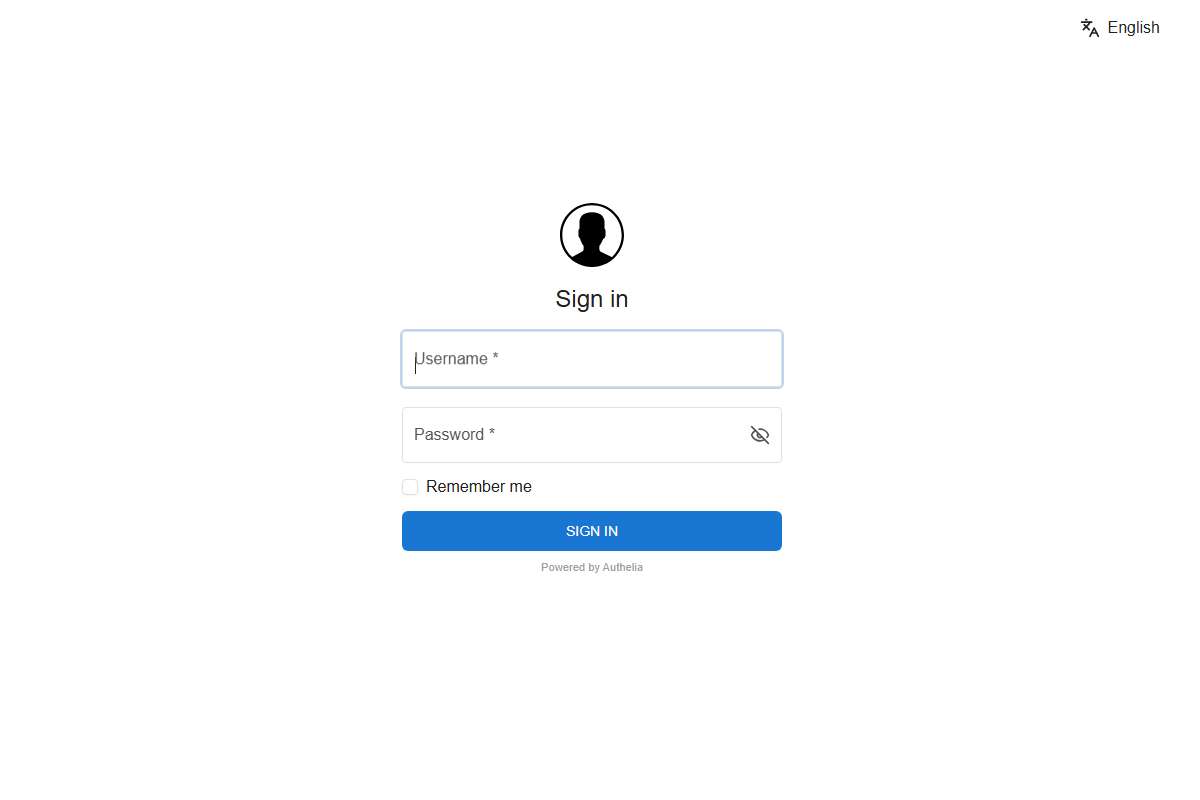
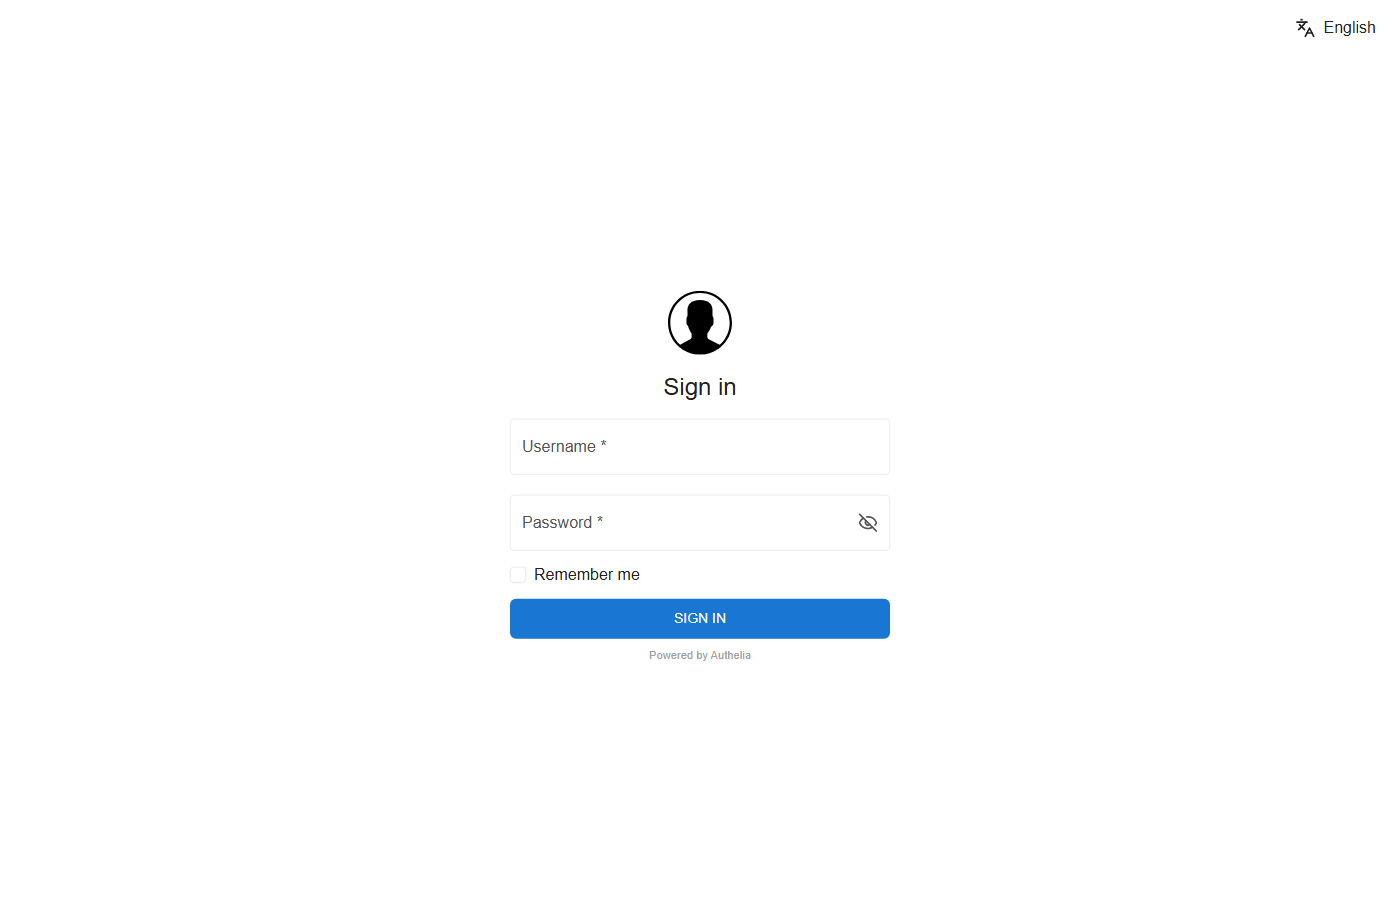
Week 6: Phoenix tracing, Prometheus + Grafana, n8n workflows (docs, screenshots)
Manifests and code landed in 0175932; this adds README 6.16/6.17, the week-06 note,
screenshots and the screenshots.ps1 sign-in fix (Authelia redirects to chat.ai.local
after sign-in). Phoenix replaces Langfuse throughout the README.

diff --git a/README.md b/README.md
@@ -4,7 +4,7 @@ A self-hosted, MCP-based AI agent platform running on **k3s inside WSL2 (Ubuntu 
 
 | | |
 |---|---|
-| **Core stack** | Ollama (3B models) · LiteLLM · LangGraph · MCP · Qdrant · MLflow · Dagster · BentoML · n8n · Langfuse · ArgoCD |
+| **Core stack** | Ollama (3B models) · LiteLLM · LangGraph · MCP · Qdrant · MLflow · Dagster · BentoML · n8n · Phoenix · Prometheus/Grafana · ArgoCD |
 | **Hardware** | Windows 11 laptop, 8+ CPU threads, 32 GB RAM, ~100 GB free SSD (reference build: Intel Core i7-9850H, 6 cores / 12 threads) |
 | **Cost** | $0 (all open source + GitHub free tier) |
 | **GPU** | Not required: everything runs on the CPU (small laptop GPUs with 2–4 GB VRAM don't help 3B models) |
@@ -56,7 +56,7 @@ A self-hosted, MCP-based AI agent platform running on **k3s inside WSL2 (Ubuntu 
 | Agent | LangGraph | Stateful agent graph / orchestration |
 | Protocol | MCP | Standard tool interface between agent and tools |
 | Vector DB | Qdrant | Embedding storage and similarity search |
-| Database | Postgres / SQLite | App state, metadata, backends for MLflow/n8n/Langfuse |
+| Database | Postgres / SQLite | Metadata for MLflow and Dagster (Postgres); n8n, Phoenix, Authelia, Grafana on SQLite |
 | Object Storage | SeaweedFS | S3-compatible artifact and document storage (MinIO went source-only in late 2025, [6.13](#613-training-pipeline-mlflow--dagster--optuna)) |
 | ML Tracking | MLflow | Experiments, metrics, model registry |
 | Pipelines | Dagster | Training, tuning, and RAG indexing pipelines |
@@ -66,7 +66,7 @@ A self-hosted, MCP-based AI agent platform running on **k3s inside WSL2 (Ubuntu 
 | UI | Open WebUI + custom Streamlit | Chat UI and agent UI |
 | Cluster UI | Headlamp | Web dashboard for pods, logs, events and resource usage |
 | Automation | n8n | Scheduled and event-driven workflows |
-| LLM Observability | Langfuse | Prompt/response traces, latency, cost |
+| LLM Observability | Phoenix (Arize, OpenTelemetry) | Traces of every agent run and LLM call: steps, prompts, latency ([6.16](#616-observability-phoenix-prometheus-grafana)); chosen over Langfuse v3 for the RAM budget |
 | Metrics | Prometheus + Grafana | Cluster and service metrics |
 | GitOps | ArgoCD | Sync manifests from GitHub to k3s |
 | CI/CD | GitHub Actions + GHCR | Test, build, and publish container images |
@@ -100,7 +100,7 @@ Windows 11 (32 GB) ── browser ──► https://*.ai.local (hosts file → 1
                      ├── agent:         LangGraph + MCP servers
                      ├── ui:            Open WebUI + Streamlit
                      ├── automation:    n8n
-                     ├── observability: Langfuse, Grafana, Prometheus
+                     ├── observability: Phoenix, Prometheus, Grafana
                      └── argocd
 ```
 
@@ -117,7 +117,7 @@ User ──► Open WebUI / Streamlit ──► Traefik ──► LangGraph agen
           Ollama (LLM + embeddings)     filesystem / web / memory / sqlite / time
           Qdrant (RAG retrieval)
 
-All LLM calls (via LiteLLM) ──► Langfuse (traces)     All pods ──► Prometheus ──► Grafana
+Agent runs + all LLM calls (via LiteLLM) ──► Phoenix (traces)     Traefik, containers, BentoML ──► Prometheus ──► Grafana
 ```
 
 ---
@@ -154,7 +154,10 @@ local-ai-platform/
 │   │   ├── ui/agent-ui.yaml      # Streamlit agent UI (agent.ai.local)
 │   │   ├── ui/headlamp.yaml      # Kubernetes dashboard (headlamp.ai.local)
 │   │   ├── automation/n8n.yaml
-│   │   ├── observability/langfuse.yaml
+│   │   ├── automation/n8n-workflows.yaml # email triage + daily briefing, imported on start (6.17)
+│   │   ├── observability/phoenix.yaml    # LLM tracing (6.16)
+│   │   ├── observability/prometheus.yaml # metrics: Traefik, containers, BentoML
+│   │   ├── observability/grafana.yaml    # Platform overview dashboard, sign-on via Authelia
 │   │   ├── auth/authelia.yaml    # single sign-on for every *.ai.local UI (6.14)
 │   │   ├── ingress/ingresses.yaml # *.ai.local, HTTPS, behind auth/authelia
 │   │   ├── ingress/tls.yaml       # Traefik's default certificate (*.ai.local)
@@ -207,7 +210,6 @@ local-ai-platform/
 │   └── triage/             # data.py (download, split), train.py (Optuna + MLflow), definitions.py
 ├── serving/                # BentoML service for the triage model (6.15)
 │   └── service.py
-├── n8n/workflows/
 ├── ui/                     # Streamlit agent UI
 ├── data/
 ├── tests/                  # pytest, no cluster or LLM needed (make test)
@@ -402,7 +404,8 @@ Script: [`windows-hosts.ps1`](infra/scripts/host/windows-hosts.ps1) (admin Power
 127.0.0.1 mlflow.ai.local
 127.0.0.1 dagster.ai.local
 127.0.0.1 n8n.ai.local
-127.0.0.1 langfuse.ai.local
+127.0.0.1 phoenix.ai.local
+127.0.0.1 triage.ai.local
 127.0.0.1 grafana.ai.local
 127.0.0.1 s3.ai.local
 127.0.0.1 qdrant.ai.local
@@ -458,7 +461,7 @@ curl -s https://llm.ai.local/v1/chat/completions -H 'Content-Type: application/j
 - **Hosted models** (`chat-cloud`). Put the API key in a `litellm-keys` Secret, not in Git. This is off by default: enabling it sends prompts off the machine (see [Non-Functional Requirements](#11-non-functional-requirements)).
 - **vLLM** isn't used. It needs a supported GPU, which this laptop doesn't have; on CPU it's slower than Ollama and serves one model per process. If a GPU box becomes available, its OpenAI endpoint is one more entry (`model: hosted_vllm/<model>`, `api_base: http://<host>:8000/v1`).
 
-When Langfuse arrives (Week 6), add `success_callback: ["langfuse"]` under `litellm_settings` and every LLM call is traced from this one place.
+Every LLM call through LiteLLM is traced to Phoenix (`callbacks: ["arize_phoenix"]` under `litellm_settings`, §6.16).
 
 ### 6.10 File agent (LangGraph + filesystem MCP)
 
@@ -635,6 +638,36 @@ The report also showed why it matters: the model caught 47 of 60 modern phishing
 
 **Privacy:** logged requests contain the message text; they stay in SeaweedFS on this machine (bucket `triage`). Set `REQUEST_LOG_BUCKET` to `""` in `serving.yaml` to stop logging (the drift report then always skips).
 
+### 6.16 Observability (Phoenix, Prometheus, Grafana)
+
+Profile `observability` (~0.8 GB). Turn it on when you want to see what happened: `.\infra\scripts\platform.ps1 profile mlops,observability`.
+
+| UI | What you see | Source |
+|---|---|---|
+| https://phoenix.ai.local | One trace per agent question (LangGraph → retrieve → search → answer → model call, with prompts, outputs and timings), and one per LLM call through LiteLLM (Open WebUI chats, n8n) | agent: OpenInference instrumentation ([`agent/main.py`](agent/main.py)); LiteLLM: `callbacks: ["arize_phoenix"]` ([`llm/litellm.yaml`](infra/k3s/llm/litellm.yaml)) |
+| https://grafana.ai.local | *Platform overview*: memory and CPU by namespace, top pods, requests/s and p95 latency per UI, message-classifier traffic | Prometheus ([`observability/prometheus.yaml`](infra/k3s/observability/prometheus.yaml)) |
+
+**Prometheus is deliberately small:** three scrape jobs (Traefik's metrics, container CPU/memory from the kubelet, pods annotated `prometheus.io/scrape` such as BentoML), only the series the dashboard uses, 7 days of retention; 36 MB instead of the kube-prometheus stack's ~1 GB. **Grafana** signs you in from the platform login (Authelia's `Remote-User` header), no second password. The dashboard is provisioned from [`grafana.yaml`](infra/k3s/observability/grafana.yaml); dashboards you build in the UI are kept on its volume.
+
+**Phoenix instead of Langfuse:** Langfuse v3 needs a web app, a worker, ClickHouse and Redis (~1.5–2 GB); Phoenix is one container with SQLite (~0.5 GB) and speaks OpenTelemetry natively. With the profile off, the agent and LiteLLM simply fail to export (silenced) and keep working.
+
+**Gotcha fixed on the way:** FastAPI now emits OpenTelemetry spans itself whenever a *global* tracer exists, so the agent's 10-second health probes buried the real runs. The agent registers Phoenix's tracer privately and hands it only to the LangChain/LangGraph instrumentation.
+
+### 6.17 Automation (n8n)
+
+Profile `automation` (~0.4 GB). https://n8n.ai.local asks for its own owner account on the first visit (a second layer behind the platform login). Two workflows ship with the platform, from [`automation/n8n-workflows.yaml`](infra/k3s/automation/n8n-workflows.yaml); n8n imports and activates them on every start, so edits made in the UI are replaced (export and paste them into that file to keep them).
+
+| Workflow | Trigger | Does | Measured |
+|---|---|---|---|
+| **Email triage** (workflow 4) | `POST /webhook/email-triage` with `{from, subject, body}` | Classifier (BentoML) → spam: "move to Junk, don't open links"; otherwise the LLM picks a category (work, personal, billing, newsletter, other), writes a one-line summary and says whether it needs a reply | spam 1.2 s; normal mail 15 s (target 30–60 s ✅) |
+| **Daily briefing** (workflow 10) | 07:30 every day, or `GET /webhook/daily-briefing` | Asks the agent for today's to-dos, writes `E:\ai-files\briefings\<date>.md`, which the document search then indexes | 29 s |
+
+Try it from a pod: `curl -X POST http://n8n.automation.svc.cluster.local:5678/webhook/email-triage -H 'Content-Type: application/json' -d '{"from":"x@y.com","subject":"Invoice","body":"..."}'`.
+
+**Real e-mail:** replace the *Email in* webhook with n8n's *Email Trigger (IMAP)* node and add your mailbox's credentials in the n8n UI (stored encrypted with the key in Secret `automation/n8n-secret`); the rest of the workflow stays. Calendar and web research (workflows 5, 6) need MCP servers that aren't built yet.
+
+**Gotchas fixed on the way:** like Authelia, n8n reads the `N8N_PORT=tcp://...` variable Kubernetes injects for a Service named `n8n` (`enableServiceLinks: false`); n8n 2.x activates workflows on import only in queue mode, so the init container imports them and then runs `n8n publish:workflow` for each active one.
+
 ---
 
 ## 7. CI/CD and GitOps
@@ -679,9 +712,9 @@ Deploys to laptop k3s
 | Open WebUI + Agent UI | 768 MB |
 | Headlamp | 64 MB (limit 256 MB) |
 | Authelia (single sign-on) | 32 MB (limit 256 MB) |
-| n8n | 512 MB |
-| Langfuse | 512 MB |
-| Prometheus + Grafana | 768 MB |
+| n8n (profile automation) | 512 MB (measured ~380 MB) |
+| Phoenix (profile observability) | 512 MB (measured ~500 MB) |
+| Prometheus + Grafana (profile observability) | 768 MB (measured ~320 MB) |
 | ArgoCD | 1.3 GB |
 | **Total (core, steady state)** | **~13.7 GB** |
 | **Peak (during training)** | **up to WSL cap of 18 GB** |
@@ -689,7 +722,7 @@ Deploys to laptop k3s
 
 Fits in the 18 GB WSL allocation, leaving ~14 GB for Windows. Every workload must set Kubernetes `requests` and `limits`. Ollama sits outside k3s, so its 4 GB counts against the WSL cap but not against pod limits.
 
-> **Why 18 GB, not 24 GB:** on the dev machine Windows uses ~8–15 GB with normal apps open, so a 24 GB WSL cap would overcommit the 32 GB machine and cause paging. At 18 GB the headroom is thin (~4.3 GB), so trim the stack where possible (e.g. ArgoCD core mode, Langfuse v2) and close heavy Windows apps before training runs.
+> **Why 18 GB, not 24 GB:** on the dev machine Windows uses ~8–15 GB with normal apps open, so a 24 GB WSL cap would overcommit the 32 GB machine and cause paging. At 18 GB the headroom is thin (~4.3 GB), so only the core runs by default and the rest is switched on by profile (§6.6; all profiles on measured 6.9 GB in WSL, 11 GB free), ArgoCD runs in core mode, and heavy Windows apps are best closed before training runs.
 
 ---
 
@@ -708,7 +741,7 @@ Fits in the 18 GB WSL allocation, leaving ~14 GB for Windows. Every workload mus
 | 9 | OCR pipeline | 4–8 s | OCR engine + SeaweedFS + RAG index |
 | 10 | Daily briefing | 30–60 s | n8n schedule + web + calendar + LLM summary |
 
-Latencies are targets for CPU-only 3B models and should be measured and reported via Langfuse.
+Latencies are targets for CPU-only 3B models; Phoenix records the real ones per agent run and LLM call (§6.16).
 
 ---
 
@@ -732,6 +765,10 @@ Work down the list; each step depends only on the ones above it. If a step fails
 | 7 | https://mlflow.ai.local | MLflow: *Models* → `message-triage` with alias `champion` ([6.13](#613-training-pipeline-mlflow--dagster--optuna)) | same → `302` |
 | 8 | https://dagster.ai.local | Dagster: *Catalog* → `triage_model`, *Automation* → `triage_nightly` | same → `302` |
 | 9 | https://s3.ai.local | SeaweedFS admin sign-in (second layer): user `admin`, password from `make s3-credentials` | same → `302` |
+| 10 | https://triage.ai.local | BentoML API docs for the message classifier (`mlops` profile); try `POST /classify` ([6.15](#615-model-serving-as-an-agent-tool-bentoml--evidently)) | same → `302` |
+| 11 | https://phoenix.ai.local | Phoenix projects `agent` and `litellm` with their traces (`observability` profile, [6.16](#616-observability-phoenix-prometheus-grafana)) | same → `302` |
+| 12 | https://grafana.ai.local | Grafana's *Platform overview* dashboard, signed in through the platform login | same → `302` |
+| 13 | https://n8n.ai.local | n8n: create its owner account once (second layer), then *Workflows* shows *Email triage* and *Daily briefing* (`automation` profile, [6.17](#617-automation-n8n)) | same → `302` |
 
 Any `*.ai.local` page answering `302` to `auth.ai.local` is up and protected; a `404` comes from Traefik (no Ingress for that name: a typo, or not deployed yet); a certificate warning means `windows-trust-ca.ps1` hasn't run (`curl.exe` needs `--ssl-no-revoke`: Windows' TLS asks for a revocation check that a private CA can't answer; browsers don't); "can't reach this site" means the hosts entry is missing.
 
@@ -752,6 +789,11 @@ Any `*.ai.local` page answering `302` to `auth.ai.local` is up and protected; a 
 | Dagster | https://dagster.ai.local | `http://dagster-webserver.mlops.svc.cluster.local:3000` | `/` UI, `/server_info`, `/graphql` |
 | SeaweedFS | https://s3.ai.local (admin UI) | `http://seaweedfs.storage.svc.cluster.local:8333` (S3 API), `:23646` (admin UI) | S3: buckets `mlflow`, `dagster`; keys from `make s3-credentials` |
 | Postgres | not exposed, see 10.3 | `postgres.storage.svc.cluster.local:5432` | databases `mlflow`, `dagster` |
+| BentoML (message triage) | https://triage.ai.local | `http://triage.mlops.svc.cluster.local:3000` | `POST /classify`, `POST /model`, `/metrics`, `/readyz` |
+| Phoenix | https://phoenix.ai.local | `http://phoenix.observability.svc.cluster.local:6006` | UI, `/v1/traces` (OTLP HTTP), `/v1/projects` (REST) |
+| Prometheus | not exposed, see 10.3 | `http://prometheus.observability.svc.cluster.local:9090` | `/api/v1/query`, `/targets` |
+| Grafana | https://grafana.ai.local | `http://grafana.observability.svc.cluster.local:3000` | `/d/platform-overview` |
+| n8n | https://n8n.ai.local | `http://n8n.automation.svc.cluster.local:5678` | `/webhook/email-triage` (POST), `/webhook/daily-briefing` (GET) |
 
 LiteLLM has no API key (README §15), so any client on this PC can call it. For example, from PowerShell:
 
@@ -770,6 +812,7 @@ kubectl -n agent port-forward svc/mcp-filesystem 8001:8000   # then http://local
 kubectl -n agent port-forward svc/mcp-rag 8002:8000          # then http://localhost:8002/health
 kubectl -n storage port-forward svc/seaweedfs 8333:8333      # S3 API at http://localhost:8333 (aws cli, boto3)
 kubectl -n storage port-forward svc/postgres 5432:5432       # psql/DBeaver on localhost:5432
+kubectl -n observability port-forward svc/prometheus 9090:9090  # Prometheus UI at http://localhost:9090
 ```
 
 WSL forwards `localhost` ports to Windows, so the browser on Windows reaches them. The agent's `/docs` page lets you call `POST /chat` directly and see the raw `steps`.
@@ -787,8 +830,12 @@ Captured with [`screenshots.ps1`](infra/scripts/screenshots.ps1) (`.\infra\scrip
 | ![Headlamp](docs/screenshots/headlamp.png) | ![MLflow](docs/screenshots/mlflow.png) |
 | **Dagster: `triage_model` materialized, check passed, nightly 02:00 GMT+4** | **SeaweedFS admin sign-in (https://s3.ai.local)** |
 | ![Dagster](docs/screenshots/dagster.png) | ![SeaweedFS](docs/screenshots/s3.png) |
-| **Single sign-on: https://auth.ai.local, trusted certificate (6.14)** | |
-| ![Authelia sign-in](docs/screenshots/auth.png) | |
+| **Single sign-on: https://auth.ai.local, trusted certificate (6.14)** | **BentoML message classifier (6.15)** |
+| ![Authelia sign-in](docs/screenshots/auth.png) | ![BentoML](docs/screenshots/triage.png) |
+| **Grafana: Platform overview (memory, CPU, requests per UI)** | **Phoenix: traces for `agent` and `litellm`** |
+| ![Grafana](docs/screenshots/grafana.png) | ![Phoenix](docs/screenshots/phoenix.png) |
+| **n8n: owner account setup (second layer behind sign-on)** | |
+| ![n8n](docs/screenshots/n8n.png) | |
 
 ### 10.5 Planned (not deployed yet)
 
@@ -796,9 +843,6 @@ Their hosts entries already exist; until the service is deployed the URL returns
 
 | Service | URL | Week |
 |---|---|---|
-| n8n | https://n8n.ai.local | 6 |
-| Langfuse | https://langfuse.ai.local | 6 |
-| Grafana | https://grafana.ai.local | 6 |
 | ArgoCD | https://argocd.ai.local | 7 |
 
 ---
@@ -809,7 +853,7 @@ Their hosts entries already exist; until the service is deployed the URL returns
 - **Cost:** $0 — only open-source software and GitHub free tier.
 - **Hardware:** runs CPU-only on 32 GB RAM; no GPU dependency.
 - **Reproducibility:** full platform deployable from the repo (`kubectl apply` or ArgoCD sync).
-- **Observability:** every LLM call traced in Langfuse; every service scraped by Prometheus.
+- **Observability:** every agent run and LLM call traced in Phoenix; Traefik, containers and the model server scraped by Prometheus, shown in Grafana.
 - **Resource safety:** all pods have requests/limits (namespace defaults in `limits.yaml`); Ollama capped at 4 cores and one request at a time.
 - **Extensibility:** new tools added as MCP servers without changing agent core.
 - **Security:** secrets kept out of Git (Kubernetes Secrets / sealed secrets); no inbound ports exposed.
@@ -843,7 +887,7 @@ On the reference machine (i7-9850H) the 80% cap slowed a short Ollama reply from
 | 3 | RAG (LlamaIndex + Qdrant) | Doc Q&A ✅ |
 | 4 | MLflow + Dagster + training | Model trained ✅ |
 | 5 | BentoML + agent integration | Model exposed as agent tool ✅ |
-| 6 | n8n + Langfuse + Grafana | Automation + traces |
+| 6 | n8n + Phoenix + Prometheus/Grafana | Automation + traces ✅ |
 | 7 | ArgoCD + GitHub Actions | GitOps CI/CD |
 | 8 | Voice + OCR + docs + demo | Full platform |
 
@@ -877,7 +921,7 @@ On the reference machine (i7-9850H) the 80% cap slowed a short Ollama reply from
 | Item | Notes |
 |---|---|
 | Ollama placement | **Decided:** WSL host (systemd), reached by pods at `http://ollama.llm.svc.cluster.local:11434`. Trade-off: ArgoCD doesn't manage Ollama; its settings live in [`03-ollama-config.sh`](infra/scripts/host/03-ollama-config.sh). The `10.42.0.1` address in `llm/ollama-host.yaml` assumes k3s's default pod network on a single node. |
-| Langfuse footprint | Langfuse v3 needs Postgres + ClickHouse + Redis + S3 (SeaweedFS can serve); 512 MB is optimistic. Budget ~1.5–2 GB or use Langfuse v2 (Postgres only). |
+| Tracing footprint | **Decided:** Phoenix (~0.5 GB, one container + SQLite) instead of Langfuse v3 (~1.5–2 GB: web, worker, ClickHouse, Redis). Phoenix has no prompt management or annotation queues like Langfuse; traces, latency and token counts are covered. |
 | ArgoCD memory | 1.3 GB is significant; consider disabling Dex/notifications or using ArgoCD core mode. |
 | GHCR 500 MB limit | Applies to private packages; keep images small (slim bases, multi-stage builds) and run `cleanup.yml`. Public images are free. |
 | Voice/OCR tooling | Not yet specified — candidates: faster-whisper (STT), Piper (TTS), Tesseract / PaddleOCR (OCR). |
@@ -905,7 +949,7 @@ On the reference machine (i7-9850H) the 80% cap slowed a short Ollama reply from
 - MCP-based tool system
 - RAG + classical ML
 - Full MLOps (MLflow, Dagster, BentoML, Optuna, Evidently)
-- LLMOps / AIOps (Langfuse, Prometheus, Grafana, n8n)
+- LLMOps / AIOps (Phoenix, Prometheus, Grafana, n8n)
 - k3s + ArgoCD GitOps
 - GitHub Actions CI/CD to GHCR
 - Portfolio-ready repo with docs and demo

diff --git a/docs/notes/week-06.md b/docs/notes/week-06.md
@@ -1,0 +1,38 @@
+# Week 6: automation and observability (n8n, Phoenix, Prometheus, Grafana)
+
+**Deliverable:** automation + traces. ✅ (#10)
+
+## What runs
+- Profile `observability` (~0.8 GB): **Phoenix** (https://phoenix.ai.local) receives a trace per
+  agent run (LangGraph → retrieve → search → answer → model call) and per LLM call through
+  LiteLLM; **Prometheus** (three scrape jobs: Traefik, container CPU/memory, annotated pods such
+  as BentoML); **Grafana** (https://grafana.ai.local) with a provisioned *Platform overview*
+  dashboard, signed in through the platform login.
+- Profile `automation` (~0.4 GB): **n8n** (https://n8n.ai.local) with two workflows imported and
+  activated from Git on every start: *Email triage* (webhook → classifier → spam verdict, or LLM
+  category + summary) and *Daily briefing* (07:30 → agent → `E:\ai-files\briefings\<date>.md`).
+
+## Decisions
+- **Phoenix instead of Langfuse v3:** one container + SQLite (~0.5 GB) versus web + worker +
+  ClickHouse + Redis (~1.5–2 GB); OpenTelemetry-native.
+- **Small Prometheus** instead of kube-prometheus-stack (~1 GB): only the series the dashboard
+  uses, 7 days; 36 MB.
+- **Grafana trusts Authelia's `Remote-User` header**: no second password.
+- **n8n on SQLite**, so `automation` doesn't need the `mlops` profile's Postgres. Workflows live
+  in a ConfigMap (Git is the truth); UI edits are replaced on restart.
+- Briefings go into the shared folder, so the document search indexes them too.
+
+## Fixed on the way
+- FastAPI emits spans to any *global* tracer, so health probes buried the agent's traces: the
+  agent keeps Phoenix's tracer private to the LangChain instrumentation.
+- n8n reads Kubernetes' injected `N8N_PORT=tcp://…` (same trap as Authelia): service links off.
+- n8n 2.x activates on import only in queue mode: import, then `n8n publish:workflow`.
+- **Every `*.ai.local` page failed in Chrome on a network without IPv6** (NXDOMAIN): WSL relays
+  Traefik to Windows' `[::1]` only, and Chrome skips IPv6-only names then. Fixed with hosts
+  entries on `127.0.0.1` plus Windows port proxies `127.0.0.1:80/443 → [::1]`.
+
+## Measured
+- Email triage: spam 1.2 s, normal mail 15 s with category, summary and needs-reply (target
+  30–60 s). Daily briefing: 29 s, file written.
+- All profiles on: 6.9 GB used in WSL, 11.1 GB available. Phoenix ~0.5 GB, Grafana ~0.28 GB,
+  Prometheus 36 MB, n8n ~0.38 GB.

diff --git a/docs/notes/platform.md b/docs/notes/platform.md
@@ -23,4 +23,10 @@ logs no `Unhealthy` noise.
   `observability`, `automation` and `voice` run only when switched on
   (`.\local-up -Profile mlops`, `.\infra\scripts\platform.ps1 profile mlops`). Off = scaled to 0.
 - Measured: core only 3.4 GB in WSL (pods 1.8 GB); core + mlops 4.9 GB; switching mlops on ~40 s.
-- Tracing uses Phoenix (~0.3 GB) instead of Langfuse v3 (~1.5–2 GB) for the same reason.
+- Tracing uses Phoenix (~0.5 GB) instead of Langfuse v3 (~1.5–2 GB) for the same reason.
+- All profiles on (2026-10-07): 6.9 GB used in WSL, 11.1 GB available.
+
+## Reaching the UIs on any network
+Hosts entries point at `127.0.0.1`; Windows port proxies forward 80/443 to `[::1]`, where WSL
+relays Traefik. Pointing them at `::1` directly broke every page in Chrome on networks without
+IPv6 (Chrome then skips IPv6-only names).

diff --git a/docs/notes/README.md b/docs/notes/README.md
@@ -11,6 +11,7 @@ decisions and why, and what was measured. The README has the full how-to; these 
 | 4 | [Training pipeline: MLflow + Dagster + Optuna](week-04.md) | ✅ |
 | — | [Platform: Headlamp, single sign-on, HTTPS, profiles](platform.md) | ✅ |
 | 5 | [Model serving (BentoML) as an agent tool, drift (Evidently)](week-05.md) | ✅ |
+| 6 | [Automation and observability: n8n, Phoenix, Prometheus, Grafana](week-06.md) | ✅ |
 
 Machine-specific changes (what ran on this laptop, how to undo it) go in `docs/DEVICE_LOG.md`,
 which stays local.
